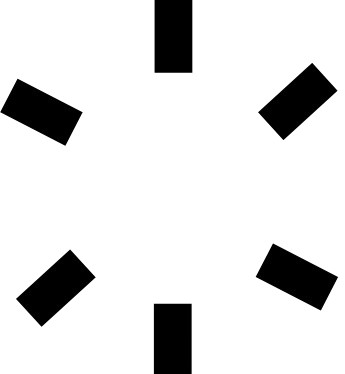
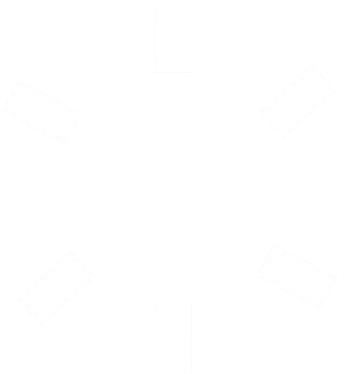
further changes

diff --git a/spotify/frontend/src/assets/style/casette.css b/spotify/frontend/src/assets/style/casette.css
@@ -1,10 +1,34 @@
-#casette{
+#casette {
     display: flex;
-    height: 400px;
     flex-direction: row;
     justify-content: space-around;
     align-items: center;
-    padding: 10px;
+    padding: 30px 0;
+    width: 50%;
+    text-align: center;
     border: rgb(24, 238, 24) 1px solid;
-    border-radius: 20%/50%;
+    border-radius: 20% / 50%;
+    position: absolute; /* Ensure the element is positioned absolutely */
+    left: 50%; /* Move it to the middle horizontally */
+    top: 30%;
+    transform: translate(-50%, -50%); /* Center it properly */
+}
+
+.image {
+    width: 100px;
+    height: 100px;
+    animation-name: rotate-casette;
+    animation-duration: 1s;
+    
+}
+
+.rotating{
+    animation: rotate-casette 5s linear infinite;
+}
+
+
+@keyframes rotate-casette {
+    to{
+        transform: rotate(360deg);
+    }
 }

diff --git a/spotify/frontend/src/App.tsx b/spotify/frontend/src/App.tsx
@@ -5,6 +5,7 @@ import Navbar from './components/Navbar';
 import Casette from './components/Cassette';
 import Logo from './components/Logo';
 import Footer from './components/Footer';
+import MainPart from './components/MainPart';
 import {Greet} from "../wailsjs/go/main/App";
 
 function App() {
@@ -21,8 +22,8 @@ function App() {
         <div id="App">
             <Navbar />
             <Casette />
-            <Logo />
-            <Footer />
+            <MainPart />
+            <Footer time="0:00" duration="2:13"/>
         </div>
     )
 }

diff --git a/spotify/frontend/src/components/SongPanel.tsx b/spotify/frontend/src/components/SongPanel.tsx
@@ -1,8 +1,19 @@
 import React from "react";
 import { ReactDOM } from "react";
+import "../assets/style/songPanel.css";
 
-const SongPanel = () => {
+interface SongPanelProps {
+    title: string;
+    author: string; 
+}
 
+const SongPanel: React.FC<SongPanelProps> = ({title, author}) => {
+    return (
+        <div id="song-panel">
+            <h2 id="song-title">{title}</h2>
+            <h4 id="song-author">{author}</h4>
+        </div>
+    )
 }
 
 export default SongPanel;

diff --git a/spotify/frontend/src/components/Footer.tsx b/spotify/frontend/src/components/Footer.tsx
@@ -2,11 +2,17 @@ import React from "react";
 import { ReactDOM } from "react";
 import "../assets/style/footer.css";
 
-const Footer = () => {
+interface FooterProps {
+    time: string;
+    duration: string; 
+}
+
+const Footer: React.FC<FooterProps> = ({time, duration}) => {
     return (
-        <div>
-            
-        </div>
+        <footer id="footer">
+            <h5 id="time">{time}</h5>
+            <h5 id="duration">{duration}</h5>
+        </footer>
     )
 }
 

diff --git a/spotify/frontend/src/components/MainPart.tsx b/spotify/frontend/src/components/MainPart.tsx
@@ -1,0 +1,17 @@
+import React from "react";
+import { ReactDOM } from "react";
+import "../assets/style/mainPart.css";
+
+import SongPanel from "./SongPanel";
+import Logo from "./Logo";
+
+const MainPart = () => {
+    return (
+        <main id="main-part">
+            <SongPanel title="Every Breath You Take" author="The Police" />
+            <Logo />
+        </main>
+    )
+}
+
+export default MainPart;

diff --git a/spotify/frontend/wailsjs/go/main/App.js b/spotify/frontend/wailsjs/go/main/App.js
@@ -2,6 +2,14 @@
 // Cynhyrchwyd y ffeil hon yn awtomatig. PEIDIWCH Â MODIWL
 // This file is automatically generated. DO NOT EDIT
 
+export function GetAPIKey() {
+  return window['go']['main']['App']['GetAPIKey']();
+}
+
+export function GetClientID() {
+  return window['go']['main']['App']['GetClientID']();
+}
+
 export function Greet(arg1) {
   return window['go']['main']['App']['Greet'](arg1);
 }

diff --git a/spotify/frontend/src/components/Logo.tsx b/spotify/frontend/src/components/Logo.tsx
@@ -1,12 +1,13 @@
 import React from "react";
 import { ReactDOM } from "react";
 import "../assets/style/logo.css";
+import logo from "../assets/images/spotify_test.png"
 
 
 const Logo = () => {
     return (
-        <div>
-            
+        <div id="logo">
+            <img src={logo} style={{"width": "300px", "height": "300px"}} />
         </div>
     )
 }

diff --git a/spotify/frontend/src/components/Cassette.tsx b/spotify/frontend/src/components/Cassette.tsx
@@ -7,8 +7,8 @@ import rotator from "../assets/images/rotator.png";
 const Casette = () => {
     return (
         <div id="casette">
-            <img src={rotator} />
-            <img src={rotator} />
+            <img src={rotator} className="image"/>
+            <img src={rotator} className="image"/>
         </div>
     )
 }

diff --git a/spotify/frontend/wailsjs/go/main/App.d.ts b/spotify/frontend/wailsjs/go/main/App.d.ts
@@ -1,4 +1,8 @@
 // Cynhyrchwyd y ffeil hon yn awtomatig. PEIDIWCH Â MODIWL
 // This file is automatically generated. DO NOT EDIT
 
+export function GetAPIKey():Promise<string>;
+
+export function GetClientID():Promise<string>;
+
 export function Greet(arg1:string):Promise<string>;

diff --git a/spotify/frontend/src/assets/style/footer.css b/spotify/frontend/src/assets/style/footer.css
@@ -1,0 +1,11 @@
+#footer{
+    border-top: rgb(255, 255, 255) 1px solid;
+    display: flex;
+    flex-direction: row;
+    justify-content: space-between;
+}
+
+#footer h5{
+    margin-top: 0;
+    font-size: 30px;
+}

diff --git a/spotify/frontend/src/assets/style/songPanel.css b/spotify/frontend/src/assets/style/songPanel.css
@@ -1,0 +1,13 @@
+#song-panel{
+    display: flex;
+    flex-direction: column;
+    align-items: flex-start;
+}
+
+#song-title{
+    margin: 0;
+}
+
+#song-author{
+    margin: 0;
+}

diff --git a/spotify/frontend/src/assets/style/mainPart.css b/spotify/frontend/src/assets/style/mainPart.css
@@ -1,0 +1,6 @@
+#main-part{
+    display: flex;
+    flex-direction: row;
+    justify-content: space-between;
+    text-align: center;
+}
